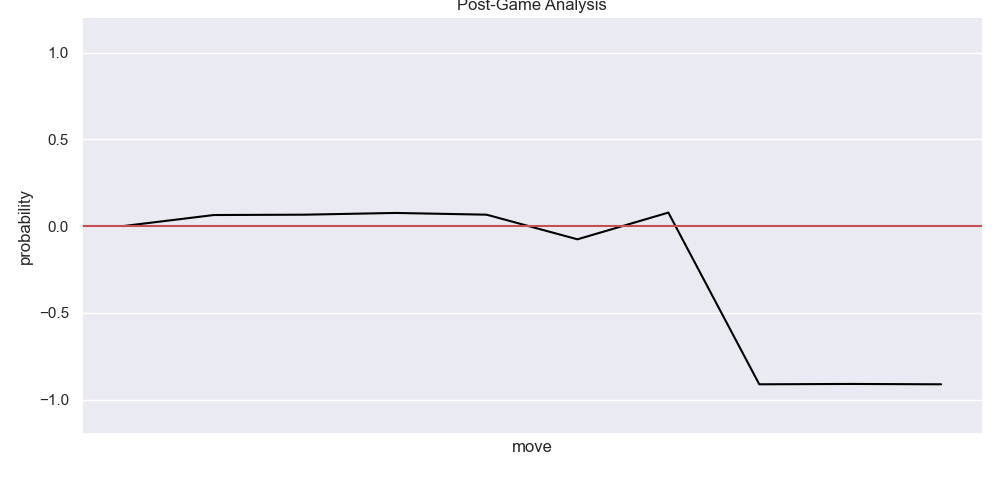
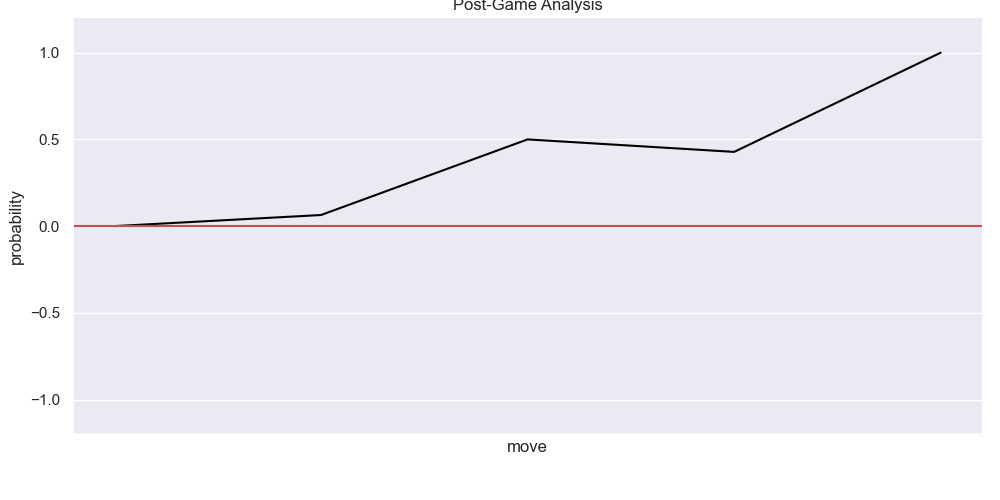
Gameplay Table

diff --git a/chess_integrated.py b/chess_integrated.py
@@ -34,6 +34,7 @@ offset_x = 30
 offset_y = 20
 font1 = pygame.font.SysFont('Cambria', 24)
 font2 = pygame.font.SysFont('Cambria', 26)
+font3 = pygame.font.SysFont('Cambria', 18)
 
 board_img = 'img/' + img_name
 prob_img = 'img/' + 'current_probability.png'
@@ -43,9 +44,9 @@ black_img = 'img/' + 'black.png'
 #---------------------
 
 # Setup the Game
-white_name = input('White Player: ') or 'White'
-black_name = input('Black Player: ') or 'Black'
-clock_input = input('Clock (Min+Increament): ') or '10+0'
+white_name = 'Tanish'
+black_name = 'Sarvag'
+clock_input = '10+0'
 newGame = chess_model.chessGame(file_name, img_name, White=white_name, Black=black_name, clock=clock_input)
 
 white_player = font1.render(white_name, True, (255, 255, 255))
@@ -56,11 +57,13 @@ black_timeFloat = newGame.time_control
 
 print('Game has started!')
 startClock = time.time()
+gameplay_arr = []
+gameOver = 0
 lastmove = ''
 
 #---------------------
 
-while not newGame.board.outcome() and not white_timeFloat == 0 and not black_timeFloat == 0:
+while not gameOver == 2:
 
     board = pygame.image.load(board_img)
     probability = pygame.image.load(prob_img)
@@ -79,6 +82,9 @@ while not newGame.board.outcome() and not white_timeFloat == 0 and not black_tim
 
     display_surface.blit(black_player, (60+offset_x, 10+offset_y))
     display_surface.blit(white_player, (60+offset_x, 730+offset_y))
+
+    for i,x in enumerate(gameplay_arr):
+        display_surface.blit(font3.render(x, True, (255,255,255)), (800+offset_x, 60+offset_y+(25*i)))
 
     #---------------------
 
@@ -102,19 +108,28 @@ while not newGame.board.outcome() and not white_timeFloat == 0 and not black_tim
 
     #---------------------
 
-    movePlayed = chess_helper.getMove_integrated(file_name, lastmove)
+    if gameOver == 0 and not newGame.board.outcome() and not white_timeFloat == 0 and not black_timeFloat == 0:
 
-    if not movePlayed:
-        if newGame.board.turn:
-            white_timeFloat -= 1
+        movePlayed = chess_helper.getMove_integrated(file_name, lastmove)
+
+        if not movePlayed:
+            if newGame.board.turn:
+                white_timeFloat -= 1
+            else:
+                black_timeFloat -= 1
+            time.sleep(1)
         else:
-            black_timeFloat -= 1
-        time.sleep(1)
-    else:
-        newGame.move(movePlayed, int(time.time() - startClock))
-        startClock = time.time()
-        lastmove = movePlayed
-        print(newGame.board.outcome())
+            newGame.move(movePlayed, int(time.time() - startClock))
+            startClock = time.time()
+            lastmove = movePlayed
+        
+        gameplay_arr = newGame.gamePlay()
+    
+    if newGame.board.outcome() or white_timeFloat == 0 or black_timeFloat == 0:
+        gameOver += 1
+
+    if gameOver == 2:
+        input()
 
 #---------------------
 

diff --git a/chess_model_integrated.py b/chess_model_integrated.py
@@ -131,6 +131,17 @@ class chessGame():
 
         plt.savefig('img/'+'current_probability.png', bbox_inches='tight', pad_inches=0, transparent=True)
     
+    def gamePlay(self) -> str:
+
+        gameplay_exp = chess.pgn.StringExporter(headers=False, comments=False, variations=False)
+        gameplay_str = self.game.accept(gameplay_exp)
+        x = re.split(r'\d+\.', gameplay_str, flags=re.IGNORECASE)
+
+        for i, y in enumerate(x):
+            x[i] = f'{i}.' + y
+
+        return x[1:]
+    
     def saveGame(self, save_dir) -> None:
 
         save_name = f"{self.game.headers['Event']} [{self.game.headers['Date']}]"

diff --git a/test_game.py b/test_game.py
@@ -1,9 +1,11 @@
 from time import sleep
 
-moves = {1:['d2d4', 'g8f6'], 2:['c2c4', 'e7e5'], 3:['d4e5', 'f6g4'], 4:['c1f4', 'b8c6'], 5:['g1f3', 'f8b4'], 6:['b1d2', 'd8e7'], 7:['a2a3', 'g4e5'], 8:['a3b4', 'e5d3']} 
+moves_1 = {1:['d2d4', 'g8f6'], 2:['c2c4', 'e7e5'], 3:['d4e5', 'f6g4'], 4:['c1f4', 'b8c6'], 5:['g1f3', 'f8b4'], 6:['b1d2', 'd8e7'], 7:['a2a3', 'g4e5'], 8:['a3b4', 'e5d3']} 
+moves_2 = {1:['e2e4', 'f7f5'], 2:['e4f5', 'g7g5'], 3:['d1h5', 'f6g4']}
+
 print('')
 
-for n, moveSet in moves.items():
+for n, moveSet in moves_2.items():
 
     for move in moveSet:
         print(f'{n}. {move}')
